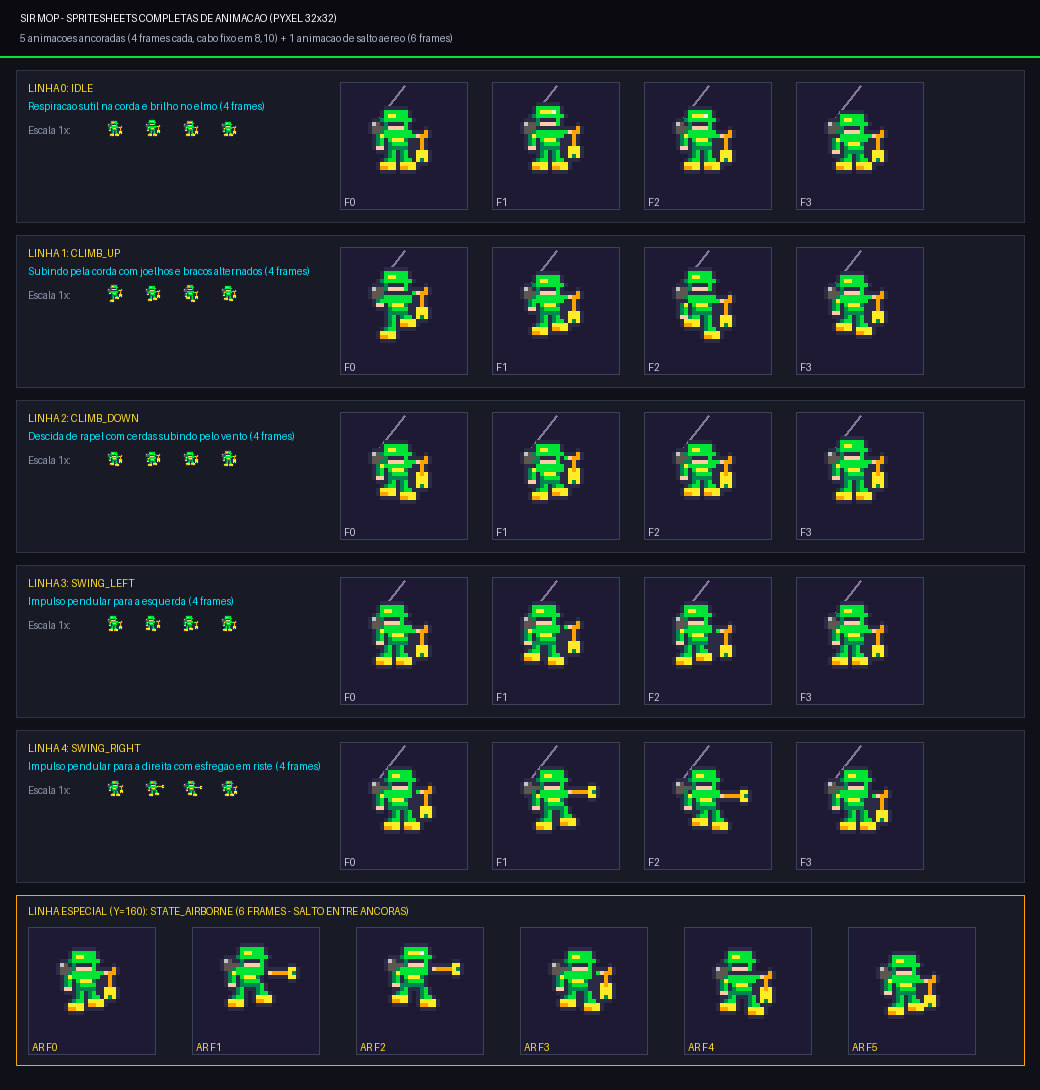
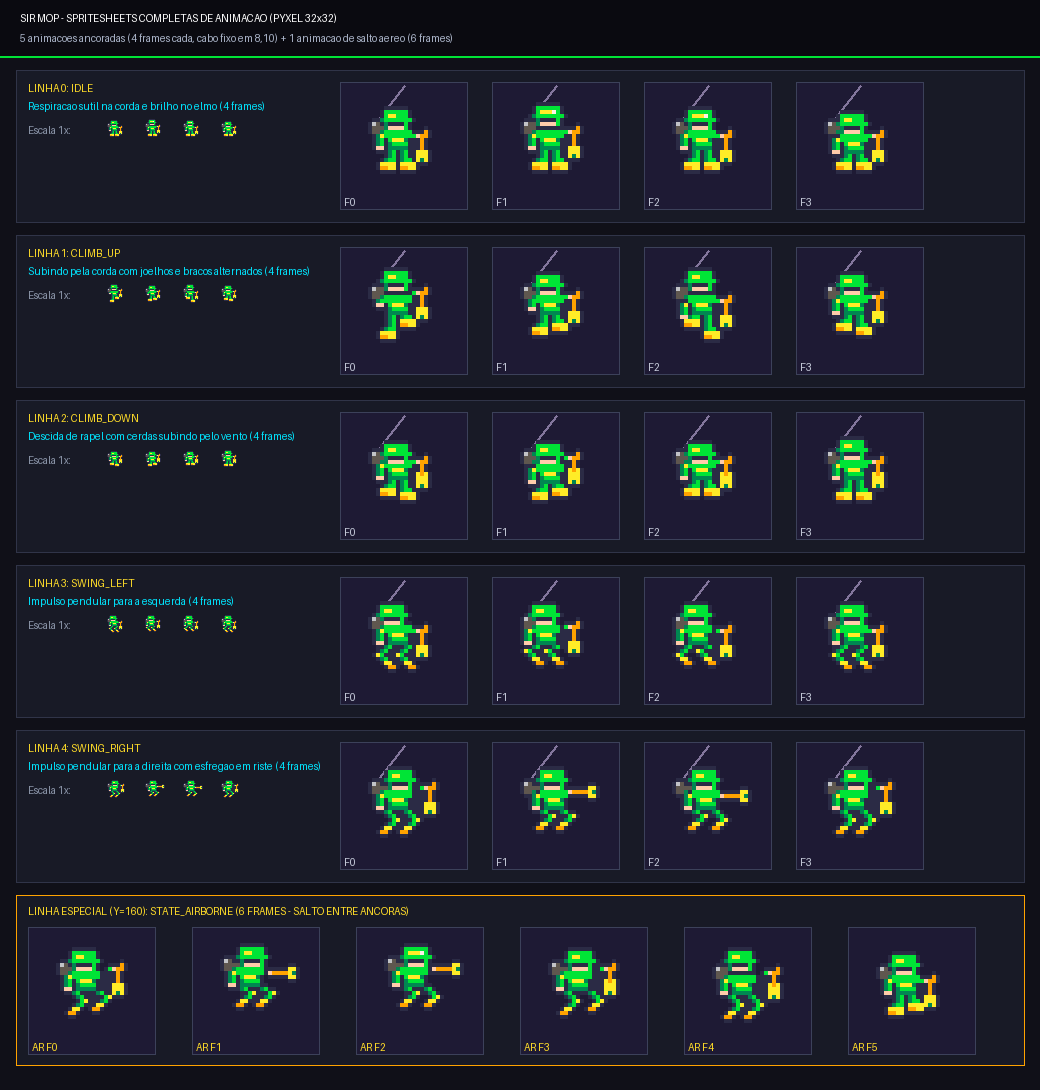
feat(sprites): articulate Sir Mop knee joints during swing and airborne animations

diff --git a/tools/build_sir_mop_spritesheets.py b/tools/build_sir_mop_spritesheets.py
@@ -71,6 +71,145 @@ def set_pixels(dst: list[list[str]], coords: list[tuple[int, int, str]]):
                 dst[y][x] = ch
 
 
+def draw_articulated_leg(
+    dst: list[list[str]],
+    hip_x: int,
+    pose: str = "straight",
+    dy: int = 0,
+):
+    """Desenha uma perna de cavaleiro em 2 segmentos (coxa -> junta do joelho -> canela/bota).
+
+    Poses suportadas:
+      - 'straight': perna reta padrão (IDLE)
+      - 'bend_left_soft': joelho avança à esquerda (-1), canela/bota dobra para trás/cima (< suave)
+      - 'bend_left_deep': joelho avança à esquerda (-2) e sobe, bota recolhida na diagonal para trás (< forte)
+      - 'kick_left': perna chutando na diagonal para a esquerda/cima
+      - 'bend_right_soft': joelho avança à direita (+1), canela/bota dobra para trás/cima (> suave)
+      - 'bend_right_deep': joelho avança à direita (+2) e sobe, bota recolhida para trás (> forte)
+      - 'kick_right': perna chutando na diagonal para a direita/cima
+    """
+    y0 = 17 + dy
+
+    if pose == "straight":
+        # Coxa (Y=17), Joelho (Y=18), Canela (Y=19), Bota (Y=20..21)
+        set_pixels(
+            dst,
+            [
+                (hip_x, y0, "3"), (hip_x + 1, y0, "B"),
+                (hip_x, y0 + 1, "3"), (hip_x + 1, y0 + 1, "B"),
+                (hip_x - 1, y0 + 2, "3"), (hip_x, y0 + 2, "B"), (hip_x + 1, y0 + 2, "B"),
+                (hip_x - 2, y0 + 3, "A"), (hip_x - 1, y0 + 3, "A"), (hip_x, y0 + 3, "A"), (hip_x + 1, y0 + 3, "A"),
+                (hip_x - 2, y0 + 4, "9"), (hip_x - 1, y0 + 4, "9"), (hip_x, y0 + 4, "A"), (hip_x + 1, y0 + 4, "A"),
+            ],
+        )
+
+    elif pose == "bend_left_soft":
+        # Chevron '<' suave: coxa desce para a esquerda até a patela dourada (y0+2),
+        # canela e bota dobram na diagonal para trás/direita (y0+3..y0+5)
+        set_pixels(
+            dst,
+            [
+                # Quadril / Coxa alta (Y=y0)
+                (hip_x, y0, "3"), (hip_x + 1, y0, "B"),
+                # Coxa média avançando à esquerda (Y=y0+1)
+                (hip_x - 1, y0 + 1, "3"), (hip_x, y0 + 1, "B"),
+                # Junta do joelho (vértice '<' projetado à esquerda com patela dourada 'A'!) (Y=y0+2)
+                (hip_x - 2, y0 + 2, "A"), (hip_x - 1, y0 + 2, "B"),
+                # Canela dobrando na diagonal para trás/direita (Y=y0+3)
+                (hip_x - 1, y0 + 3, "3"), (hip_x, y0 + 3, "B"),
+                # Bota recolhida atrás do joelho (Y=y0+4..y0+5)
+                (hip_x, y0 + 4, "A"), (hip_x + 1, y0 + 4, "A"),
+                (hip_x + 1, y0 + 5, "9"), (hip_x + 2, y0 + 5, "9"),
+            ],
+        )
+
+    elif pose == "bend_left_deep":
+        # Chevron '<' bem dobrado e alto: joelho sobe e avança 3px à esquerda (y0+1),
+        # canela e bota dobram acentuadamente para trás/direita (y0+2..y0+4)!
+        set_pixels(
+            dst,
+            [
+                # Coxa saindo do quadril para a esquerda (Y=y0)
+                (hip_x - 1, y0, "3"), (hip_x, y0, "B"),
+                # Joelho alto bem dobrado (vértice '<' agudo com joelheira dourada 'A') (Y=y0+1)
+                (hip_x - 3, y0 + 1, "A"), (hip_x - 2, y0 + 1, "B"),
+                # Canela voltando na diagonal para trás/direita (Y=y0+2)
+                (hip_x - 2, y0 + 2, "3"), (hip_x - 1, y0 + 2, "B"),
+                # Bota recolhida atrás na diagonal (Y=y0+3..y0+4)
+                (hip_x - 1, y0 + 3, "A"), (hip_x, y0 + 3, "A"),
+                (hip_x, y0 + 4, "9"), (hip_x + 1, y0 + 4, "9"),
+            ],
+        )
+
+    elif pose == "kick_left":
+        # Joelho alto à esquerda com chute/gancho dobrado
+        set_pixels(
+            dst,
+            [
+                (hip_x - 1, y0, "3"), (hip_x, y0, "B"),
+                # Joelho erguido à frente
+                (hip_x - 2, y0 + 1, "3"), (hip_x - 1, y0 + 1, "B"),
+                (hip_x - 3, y0 + 2, "A"), (hip_x - 2, y0 + 2, "B"),
+                # Canela/bota dobrada para trás do joelho
+                (hip_x - 2, y0 + 3, "A"), (hip_x - 1, y0 + 3, "A"),
+                (hip_x - 1, y0 + 4, "9"), (hip_x, y0 + 4, "9"),
+            ],
+        )
+
+    elif pose == "bend_right_soft":
+        # Chevron '>' suave: coxa desce para a direita até a patela dourada (y0+2),
+        # canela e bota dobram na diagonal para trás/esquerda (y0+3..y0+5)
+        set_pixels(
+            dst,
+            [
+                # Quadril / Coxa alta (Y=y0)
+                (hip_x, y0, "3"), (hip_x + 1, y0, "B"),
+                # Coxa média avançando à direita (Y=y0+1)
+                (hip_x + 1, y0 + 1, "3"), (hip_x + 2, y0 + 1, "B"),
+                # Junta do joelho (vértice '>' projetado à direita com patela dourada 'A'!) (Y=y0+2)
+                (hip_x + 2, y0 + 2, "B"), (hip_x + 3, y0 + 2, "A"),
+                # Canela dobrando na diagonal para trás/esquerda (Y=y0+3)
+                (hip_x + 1, y0 + 3, "3"), (hip_x + 2, y0 + 3, "B"),
+                # Bota recolhida atrás do joelho (Y=y0+4..y0+5)
+                (hip_x, y0 + 4, "A"), (hip_x + 1, y0 + 4, "A"),
+                (hip_x - 1, y0 + 5, "9"), (hip_x, y0 + 5, "9"),
+            ],
+        )
+
+    elif pose == "bend_right_deep":
+        # Chevron '>' bem dobrado e alto: joelho sobe e avança à direita (y0+1),
+        # canela e bota dobram acentuadamente para trás/esquerda (y0+2..y0+4)!
+        set_pixels(
+            dst,
+            [
+                # Coxa saindo do quadril para a direita (Y=y0)
+                (hip_x + 1, y0, "3"), (hip_x + 2, y0, "B"),
+                # Joelho alto bem dobrado (vértice '>' agudo com joelheira dourada 'A') (Y=y0+1)
+                (hip_x + 3, y0 + 1, "B"), (hip_x + 4, y0 + 1, "A"),
+                # Canela voltando na diagonal para trás/esquerda (Y=y0+2)
+                (hip_x + 2, y0 + 2, "3"), (hip_x + 3, y0 + 2, "B"),
+                # Bota recolhida atrás na diagonal (Y=y0+3..y0+4)
+                (hip_x + 1, y0 + 3, "A"), (hip_x + 2, y0 + 3, "A"),
+                (hip_x, y0 + 4, "9"), (hip_x + 1, y0 + 4, "9"),
+            ],
+        )
+
+    elif pose == "kick_right":
+        # Joelho projetado à direita com canela dobrada em impulso
+        set_pixels(
+            dst,
+            [
+                (hip_x + 1, y0, "3"), (hip_x + 2, y0, "B"),
+                (hip_x + 2, y0 + 1, "3"), (hip_x + 3, y0 + 1, "B"),
+                (hip_x + 3, y0 + 2, "B"), (hip_x + 4, y0 + 2, "A"),
+                (hip_x + 2, y0 + 3, "A"), (hip_x + 3, y0 + 3, "A"),
+                (hip_x + 1, y0 + 4, "9"), (hip_x + 2, y0 + 4, "9"),
+            ],
+        )
+    else:
+        raise ValueError(f"Pose de perna desconhecida: {pose}")
+
+
 def compose_pose(
     head_dx: int = 0,
     head_dy: int = 0,
@@ -81,6 +220,8 @@ def compose_pose(
     left_leg_dy: int = 0,
     right_leg_dx: int = 0,
     right_leg_dy: int = 0,
+    left_leg_pose: str | None = None,
+    right_leg_pose: str | None = None,
     mop_dx: int = 0,
     mop_dy: int = 0,
     keep_harness_fixed: bool = True,
@@ -88,19 +229,24 @@ def compose_pose(
     visor_glint: bool = False,
     lance_forward: bool = False,
 ) -> list[str]:
-    """Compõe um frame 32x32 do Sir Mop articulando cabeça, tronco, braços, pernas e esfregão."""
+    """Compõe um frame 32x32 do Sir Mop articulando cabeça, tronco, braços, joelhos e esfregão."""
     g = empty_grid()
     base = SIR_MOP_INNER_32
 
-    # 1. Pernas (Y=17..21): perna esquerda X=10..13, perna direita X=15..18
-    blit_region(base, g, 10, 17, 13, 21, dx=left_leg_dx, dy=left_leg_dy)
-    blit_region(base, g, 15, 17, 18, 21, dx=right_leg_dx, dy=right_leg_dy)
+    # 1. Pernas: usa articulação de joelho dobrado quando especificada, ou deslocamento vertical padrão
+    if left_leg_pose is not None:
+        draw_articulated_leg(g, hip_x=11 + left_leg_dx, pose=left_leg_pose, dy=left_leg_dy)
+    else:
+        blit_region(base, g, 10, 17, 13, 21, dx=left_leg_dx, dy=left_leg_dy)
+        if left_leg_dy > 0:
+            set_pixels(g, [(12 + left_leg_dx, 17, "3"), (13 + left_leg_dx, 17, "B")])
 
-    # Preenche conexão da coxa se a perna desceu 1px
-    if left_leg_dy > 0:
-        set_pixels(g, [(12 + left_leg_dx, 17, "3"), (13 + left_leg_dx, 17, "B")])
-    if right_leg_dy > 0:
-        set_pixels(g, [(15 + right_leg_dx, 17, "3"), (16 + right_leg_dx, 17, "B")])
+    if right_leg_pose is not None:
+        draw_articulated_leg(g, hip_x=16 + right_leg_dx, pose=right_leg_pose, dy=right_leg_dy)
+    else:
+        blit_region(base, g, 15, 17, 18, 21, dx=right_leg_dx, dy=right_leg_dy)
+        if right_leg_dy > 0:
+            set_pixels(g, [(15 + right_leg_dx, 17, "3"), (16 + right_leg_dx, 17, "B")])
 
     # 2. Tronco central (X=11..17, Y=12..16)
     blit_region(base, g, 11, 12, 17, 16, dx=torso_dx, dy=torso_dy)
@@ -205,42 +351,161 @@ def build_climb_down_frames() -> list[Image.Image]:
 
 
 def build_swing_left_frames() -> list[Image.Image]:
-    """Linha 3: SWING_LEFT (4 frames) — impulso pendular para a esquerda."""
+    """Linha 3: SWING_LEFT (4 frames) — impulso pendular para a esquerda com joelhos dobrados (<)."""
     poses = [
-        compose_pose(head_dx=-1, left_leg_dx=-1, right_leg_dx=-1, mop_dx=0),
-        compose_pose(head_dx=-1, torso_dx=-1, left_leg_dx=-2, left_leg_dy=-1, right_leg_dx=-1, mop_dx=0, mop_dy=-1),
-        compose_pose(head_dx=-1, torso_dx=-1, left_leg_dx=-2, right_leg_dx=-2, right_leg_dy=-1, mop_dx=0),
-        compose_pose(head_dx=0, left_leg_dx=-1, right_leg_dx=-1, mop_dx=0),
+        # F0: Inicia flexão dos joelhos para a esquerda (< suave)
+        compose_pose(
+            head_dx=-1,
+            left_leg_pose="bend_left_soft",
+            right_leg_pose="bend_left_soft",
+            mop_dx=0,
+        ),
+        # F1: Dobra máxima dos joelhos (< forte), canelas e botas recolhidas para trás/cima
+        compose_pose(
+            head_dx=-1,
+            torso_dx=-1,
+            left_leg_pose="bend_left_deep",
+            right_leg_pose="bend_left_deep",
+            mop_dx=0,
+            mop_dy=-1,
+        ),
+        # F2: Impulso no pico esquerdo — perna esquerda chuta/flexiona alto enquanto a direita mantém o joelho dobrado
+        compose_pose(
+            head_dx=-1,
+            torso_dx=-1,
+            left_leg_pose="kick_left",
+            right_leg_pose="bend_left_deep",
+            mop_dx=0,
+        ),
+        # F3: Retorno com joelhos semidobrados
+        compose_pose(
+            head_dx=0,
+            left_leg_pose="bend_left_soft",
+            right_leg_pose="bend_left_soft",
+            mop_dx=0,
+        ),
     ]
     return [render_sir_mop(p) for p in poses]
 
 
 def build_swing_right_frames() -> list[Image.Image]:
-    """Linha 4: SWING_RIGHT (4 frames) — impulso pendular para a direita com esfregão em riste!"""
+    """Linha 4: SWING_RIGHT (4 frames) — impulso pendular para a direita com joelhos dobrados (>) e esfregão em riste!"""
     poses = [
-        compose_pose(head_dx=1, left_leg_dx=1, right_leg_dx=1, mop_dx=1, mop_dy=-1),
-        compose_pose(head_dx=1, torso_dx=1, left_leg_dx=1, right_leg_dx=2, right_leg_dy=-1, mop_dx=1, mop_dy=-1, lance_forward=True),
-        compose_pose(head_dx=1, torso_dx=1, left_leg_dx=2, left_leg_dy=-1, right_leg_dx=2, mop_dx=1, lance_forward=True),
-        compose_pose(head_dx=1, left_leg_dx=1, right_leg_dx=1, mop_dx=1),
+        # F0: Inicia flexão dos joelhos para a direita (> suave) e ergue o esfregão para não cobrir o joelho
+        compose_pose(
+            head_dx=1,
+            left_leg_pose="bend_right_soft",
+            right_leg_pose="bend_right_soft",
+            mop_dx=2,
+            mop_dy=-2,
+        ),
+        # F1: Dobra máxima dos joelhos (> forte), canelas e botas recolhidas para trás/cima + lança em riste
+        compose_pose(
+            head_dx=1,
+            torso_dx=1,
+            left_leg_pose="bend_right_deep",
+            right_leg_pose="bend_right_deep",
+            mop_dx=1,
+            mop_dy=-1,
+            lance_forward=True,
+        ),
+        # F2: Impulso no pico direito — joelho direito projetado à frente e esquerdo dobrado (>)
+        compose_pose(
+            head_dx=1,
+            torso_dx=1,
+            left_leg_pose="bend_right_deep",
+            right_leg_pose="kick_right",
+            mop_dx=1,
+            lance_forward=True,
+        ),
+        # F3: Retorno com joelhos semidobrados e esfregão alto liberando a silhueta dos joelhos
+        compose_pose(
+            head_dx=1,
+            left_leg_pose="bend_right_soft",
+            right_leg_pose="bend_right_soft",
+            mop_dx=2,
+            mop_dy=-2,
+        ),
     ]
     return [render_sir_mop(p) for p in poses]
 
 
 def build_airborne_frames() -> list[Image.Image]:
-    """Folha de Salto / Voo Livre (6 frames, 192x32) — salto acrobático entre âncoras."""
+    """Folha de Salto / Voo Livre (6 frames, 192x32) — salto acrobático entre âncoras com joelhos flexionados."""
     poses = [
-        # Frame 0: Impulso de decolagem
-        compose_pose(head_dy=-1, torso_dy=-1, left_leg_dy=-1, right_leg_dy=-2, mop_dy=-2, keep_harness_fixed=False),
-        # Frame 1: Subida no ar com lança-esfregão em riste
-        compose_pose(head_dx=1, head_dy=-2, torso_dy=-2, left_leg_dx=-1, left_leg_dy=-2, right_leg_dx=1, right_leg_dy=-3, mop_dx=1, mop_dy=-2, keep_harness_fixed=False, lance_forward=True),
-        # Frame 2: Ápice do salto (pose heroica)
-        compose_pose(head_dx=1, head_dy=-2, torso_dy=-2, left_leg_dx=-1, left_leg_dy=-3, right_leg_dx=1, right_leg_dy=-2, mop_dx=1, mop_dy=-3, keep_harness_fixed=False, lance_forward=True, visor_glint=True),
-        # Frame 3: Início da descida aérea, esfregão erguido
-        compose_pose(head_dx=1, head_dy=-1, torso_dy=-1, left_leg_dy=-2, right_leg_dx=1, right_leg_dy=-1, mop_dx=1, mop_dy=-2, keep_harness_fixed=False, bristles_flare_up=True),
-        # Frame 4: Preparando reconexão (perna estendida à frente)
-        compose_pose(head_dy=-1, left_leg_dx=-1, left_leg_dy=-1, right_leg_dx=1, right_leg_dy=0, mop_dy=-1, keep_harness_fixed=False, bristles_flare_up=True),
+        # Frame 0: Impulso de decolagem (joelhos dobrando)
+        compose_pose(
+            head_dy=-1,
+            torso_dy=-1,
+            left_leg_dy=-1,
+            right_leg_dy=-1,
+            left_leg_pose="bend_right_soft",
+            right_leg_pose="bend_right_deep",
+            mop_dx=2,
+            mop_dy=-3,
+            keep_harness_fixed=False,
+        ),
+        # Frame 1: Subida no ar com ambos os joelhos bem dobrados (>) e lança em riste
+        compose_pose(
+            head_dx=1,
+            head_dy=-2,
+            torso_dy=-2,
+            left_leg_dy=-2,
+            right_leg_dy=-2,
+            left_leg_pose="bend_right_deep",
+            right_leg_pose="bend_right_deep",
+            mop_dx=1,
+            mop_dy=-2,
+            keep_harness_fixed=False,
+            lance_forward=True,
+        ),
+        # Frame 2: Ápice do salto (perna da frente flexionada alta, perna de trás dobrada no joelho)
+        compose_pose(
+            head_dx=1,
+            head_dy=-2,
+            torso_dy=-2,
+            left_leg_dy=-2,
+            right_leg_dy=-2,
+            left_leg_pose="bend_right_deep",
+            right_leg_pose="kick_right",
+            mop_dx=1,
+            mop_dy=-3,
+            keep_harness_fixed=False,
+            lance_forward=True,
+            visor_glint=True,
+        ),
+        # Frame 3: Início da descida aérea com joelhos flexionados e esfregão erguido
+        compose_pose(
+            head_dx=1,
+            head_dy=-1,
+            torso_dy=-1,
+            left_leg_dy=-1,
+            right_leg_dy=-1,
+            left_leg_pose="bend_right_soft",
+            right_leg_pose="kick_right",
+            mop_dx=2,
+            mop_dy=-3,
+            keep_harness_fixed=False,
+            bristles_flare_up=True,
+        ),
+        # Frame 4: Preparando reconexão (joelhos amortecendo)
+        compose_pose(
+            head_dy=-1,
+            left_leg_pose="bend_right_soft",
+            right_leg_pose="bend_right_soft",
+            mop_dx=2,
+            mop_dy=-2,
+            keep_harness_fixed=False,
+            bristles_flare_up=True,
+        ),
         # Frame 5: Amortecendo encaixe no link
-        compose_pose(head_dy=0, left_leg_dy=0, right_leg_dy=-1, mop_dy=0, keep_harness_fixed=False),
+        compose_pose(
+            head_dy=0,
+            left_leg_dy=0,
+            right_leg_dy=-1,
+            mop_dy=0,
+            keep_harness_fixed=False,
+        ),
     ]
     return [render_sir_mop(p) for p in poses]
 
